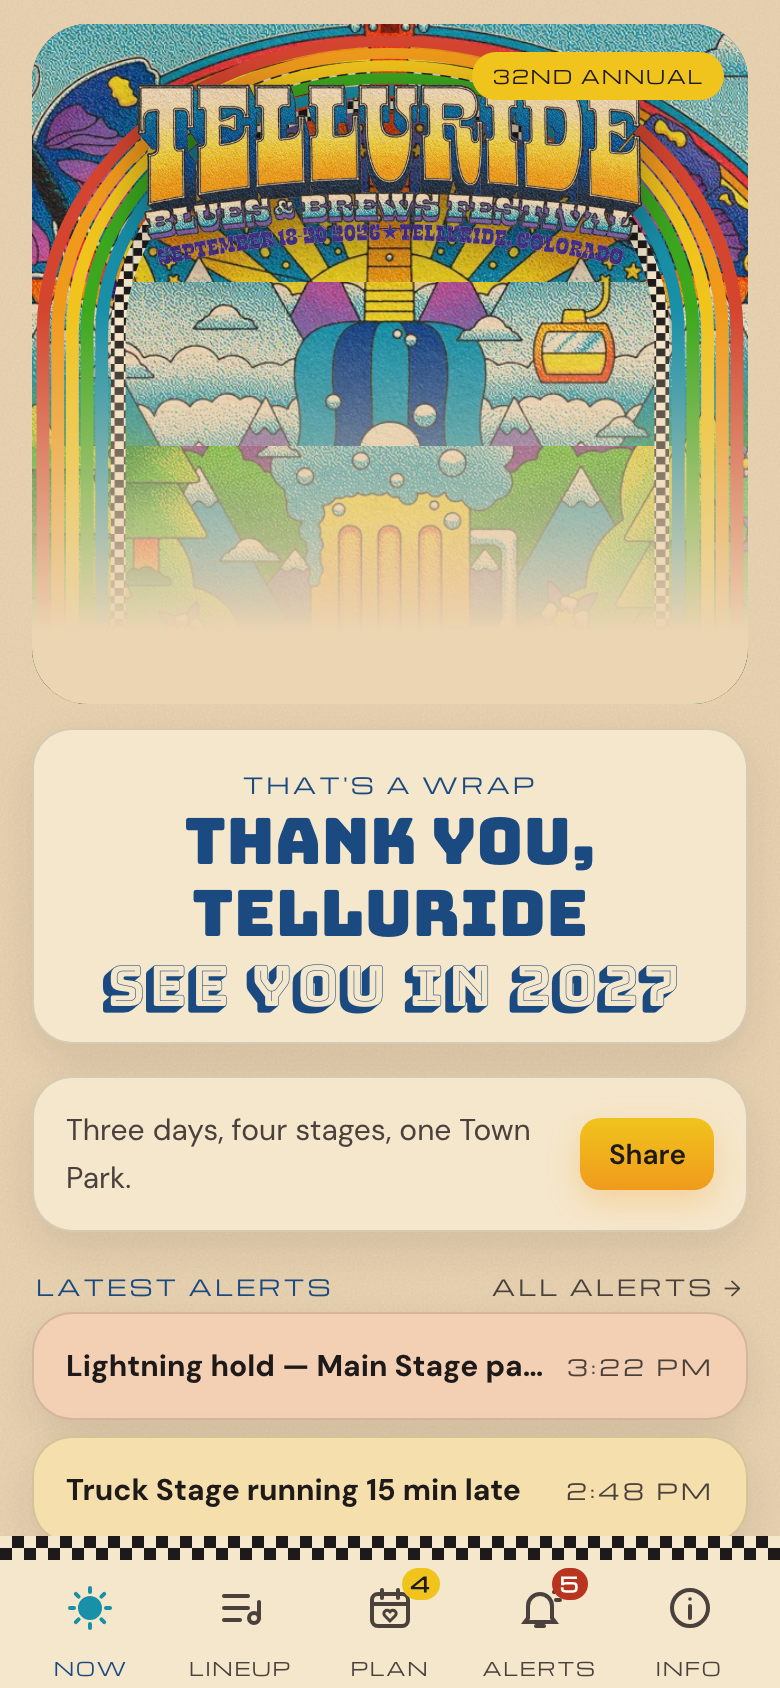
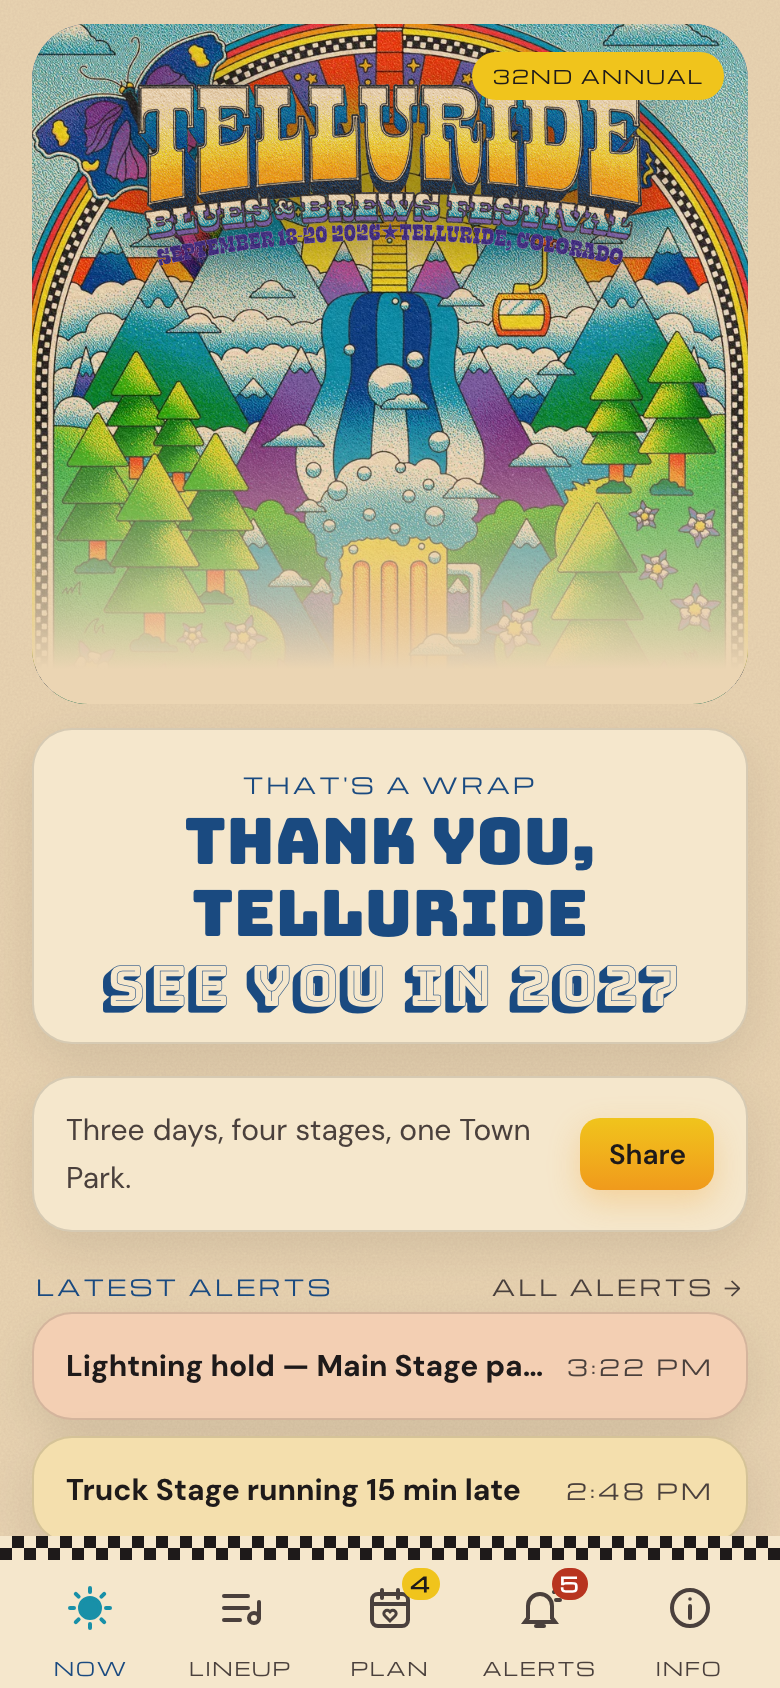
feat(now): hero is one cropped slice of the official poster, no layered crops

Changed region(s): [[0.0308, 0.0, 0.9846, 0.4005], [0.6462, 0.0616, 0.6769, 0.0924]]

diff --git a/apps/festival/src/features/now/Hero.tsx b/apps/festival/src/features/now/Hero.tsx
@@ -1,25 +1,19 @@
 import { asset } from "@/app/assets";
 import type { ReactNode } from "react";
-import { Chip, RainbowArch } from "@/design";
+import { Chip } from "@/design";
 
-const LAYERS = [
-  { src: asset("/art/sky.webp"), top: "0%" },
-  { src: asset("/art/mountains-near.webp"), top: "38%" },
-  { src: asset("/art/foreground.webp"), top: "62%" },
-] as const;
-
-/** Poster-crop hero framed by the rainbow arch; official lockup on top. */
+/**
+ * One cropped slice of the official 2026 poster (the arch scene, below the title) with the official
+ * lockup on top. Static by design: no parallax, no layered crops (owner request, 2026-09-12).
+ */
 export function Hero({ compact = false, children }: { compact?: boolean; children?: ReactNode }) {
   return (
     <div className={`relative overflow-hidden rounded-hero bg-night ${compact ? "h-[250px]" : "h-[340px]"}`}>
-      {LAYERS.map((l) => (
-        <img key={l.src} src={l.src} alt="" aria-hidden="true" style={{ top: l.top }}
-          className="absolute left-1/2 w-[150%] max-w-none -translate-x-1/2 select-none" draggable={false} />
-      ))}
-      <RainbowArch />
+      <img src={asset("/art/poster-hero.webp")} alt="" aria-hidden="true" draggable={false}
+        className="absolute inset-0 h-full w-full select-none object-cover object-top" />
       <img src={asset("/art/lockup.webp")} alt="Telluride Blues & Brews Festival, September 18–20, 2026, Telluride, Colorado"
         className="absolute left-1/2 top-4 w-[74%] -translate-x-1/2 drop-shadow-[0_6px_14px_rgba(0,0,0,.35)]" />
-      <div className="absolute inset-x-0 bottom-0 h-[58%] bg-gradient-to-b from-transparent to-bg to-[82%]" />
+      <div className="absolute inset-x-0 bottom-0 h-[42%] bg-gradient-to-b from-transparent to-bg to-[88%]" />
       <div className="absolute right-3 top-3"><Chip tone="sun">32nd annual</Chip></div>
       {children}
     </div>
